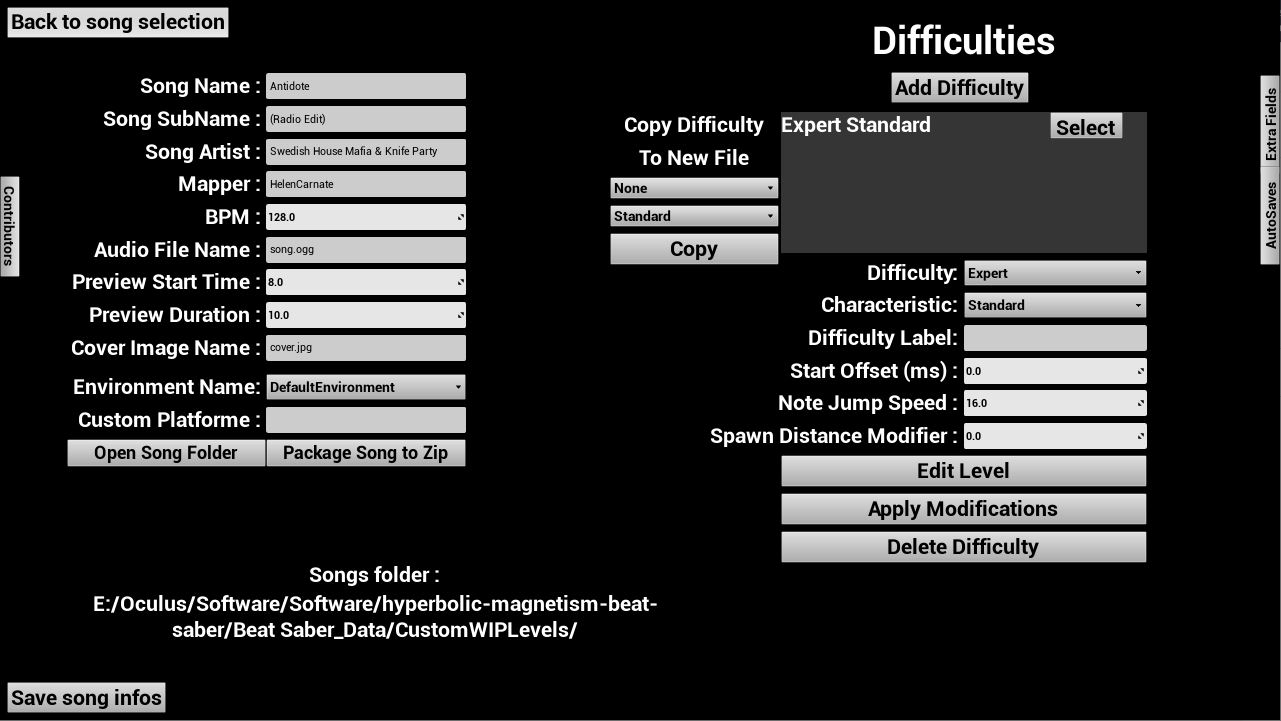
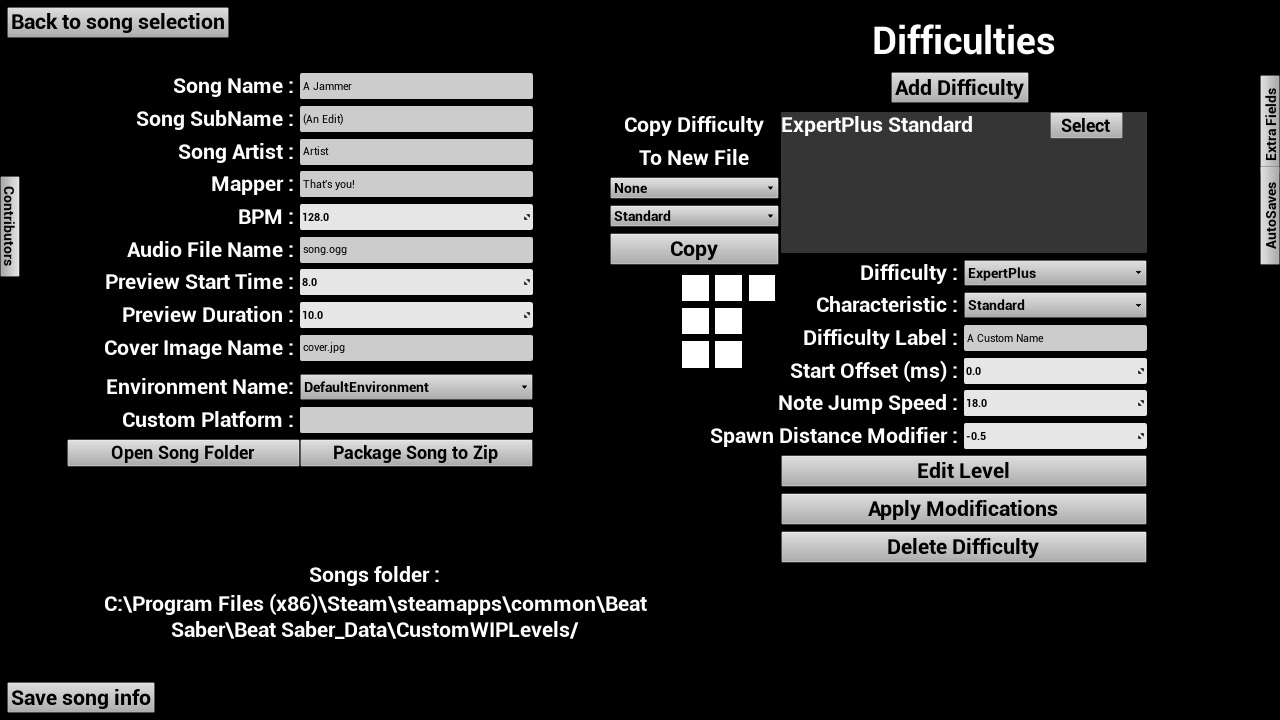
MMA2 update

diff --git a/wiki/mapping/basic-lighting.md b/wiki/mapping/basic-lighting.md
@@ -20,6 +20,7 @@ The available lighting types are consistent across each of the built-in game env
 * **Ring Spins:** Used to create movement in the rings. In environments with both an inner and an our ring, rings spins rotate both rings together.
 * **Ring Zooms:** Used to zoom and unzoom the inner ring in environments that have it. Does not affect the outer ring.
 * **Laser Speed:** Changes the speed of the side laser rotation from stationary (0) to very fast (20). Set independently for the right and left side lasers. Back top lasers do not move. Laser speed increases linearly so **2** is twice as fast as **1** and **5** is five times as fast as **1**.
+* **Boost Event:** Changes lighting colors between two pairs of colors. Off uses the first pair of colors. On uses the second (boost) pair of colors.
 
 ## Lighting Events
 Each lighting type can make use of four different lighting events.
@@ -80,7 +81,7 @@ Custom environment models (platforms) created by the community exist but require
 
 The basic structure of each environment is mostly the same. In the [Mediocre Map Assistant 2](./mediocre-map-assistant.md) editor the lighting track looks like this:
 <p align="center">
-![Screenshot of the MMA2 lighting track from the top down](~@images/mapping/mma2-lighting-track.png)
+![Screenshot of the MMA2 lighting track from the top down](~@images/mapping/mma2-lighting-track.jpg)
 </p>
 
 ### Environment Previews 
@@ -132,8 +133,7 @@ When choosing color overrides for the notes. It is **HIGHLY** recommended that y
 
 See [Environment Default Colours](/mapping/lighting-defaults.html) for a list of default colors used in the environments.
 
-[BeatMapper](/mapping/#beatmapper-app) and [ChroMapper](/mapping/#chromapper-coming-soon) natively support color overrides. Check their respective guides for more information.  
-[MMA2](/mapping/#mediocre-map-assistant-2) does not support color overrides and requires manual editing of your map files or use of [BeatMapperTools](https://mappers.beatmappertools.com/) by **Darkuni**.
+[BeatMapper](/mapping/#beatmapper-app), [ChroMapper](/mapping/#chromapper-coming-soon), and [MMA2](/mapping/#mediocre-map-assistant-2) natively support color overrides. Check their respective guides for more information.
 
 ### Manually Adding Color Overrides
 1. Decide what RGB colors you want notes and/or lights and/or walls to be. Use a color scheme utility like [Paletton](https://paletton.com/#uid=1000u0kllllaFw0g0qFqFg0w0aF) to find complimentary colors.
@@ -145,11 +145,6 @@ See [Environment Default Colours](/mapping/lighting-defaults.html) for a list of
 	* The `"r":` and `"g":` values **must** have commas after them.
 
 See lines 29-60 and 69-100 of this [Pastebin clip](https://pastebin.com/x9zEiHxR) for an example of these code blocks in action in a `.DAT` file.  
-
-::: danger WARNING for MMA2 Users
-If you choose to manualy add color overrides to your map this must be the **LAST** thing you do before releasing.  
-Opening your map in the editor again will remove your color overrides.
-:::
 
 ## Previewing Your Lights
 These tools will help PC Beat Saber users preview their lighting more accurately. Most editors do not show true-to-life lighting effects.

diff --git a/wiki/mapping/mediocre-map-assistant.md b/wiki/mapping/mediocre-map-assistant.md
@@ -173,10 +173,11 @@ Special characters such as those found in, Japanese (日本語/にほんご), Ka
 The <kbd>Open Song Folder</kbd> button will open your song folder in Windows Explorer. This will help you confirm that you have your files in the right spot.
 The <kbd>Package Song to Zip</kbd> button will remove your autosaves folder and zip the files for BeatSaver.
 The <kbd>Save Song Info</kbd> button commits all of your metadata to the Info.dat file
+
 #### Difficulty Settings
 On the right side of the `Song Info` page is the area where you create individual difficulties and edit data that only applies to a single diffculty level. To create your first difficulty:
 
-1. Click the **<kbd>Add Difficulty</kbd>** button. The default difficulty is easy.
+1. Click the **<kbd>Add Difficulty</kbd>** button.
 2. In the **Difficulty** dropdown select which difficulty you want to make (easy, normal, hard, expert, or expertplus).
 3. In the **Characteristic** dropdown you can select Standard, No Arrows, or Single Saber.
 4. **Difficulty Label** is optional and allows you to give your difficulties custom names in-game. If left blank, the difficulty set in the dropdown will be displayed instead. *This feature may not reliably work on all VR models*.
@@ -189,6 +190,14 @@ You **must** click <kbd>Apply Modifications</kbd> if you make a change to diffic
 :::
 
 Click <kbd>Edit Level</kbd> when you're ready to start mapping!
+
+#### Color Override Settings
+You can set the environment color overrides for the selected difficulty using the squares on the right side of the `Song Info` page. Hovering over a square will list what override the square is for. Clicking on the square will bring up the color picker. Right clicking on the square will remove the overriden color (returning back to the default color).
+
+* `colorLeft` and `colorRight`: Color of the left and right hand blocks
+* `obstacleColor`: Color of the walls
+* `envColorLeft` and `envColorRight`: First pair of lighting colors
+* `envColorLeftBoost` and `envColorRightBoost`: Second pair of lighting colors
 
 #### Other Settings
 * **Contributors Tab:** This left side tab is an optional spot to give credit to mappers, lighters, playtesters or other contributors to your map. Enter the contributor role, their name, and the file name of a square "profile image" which you place in your song folder
